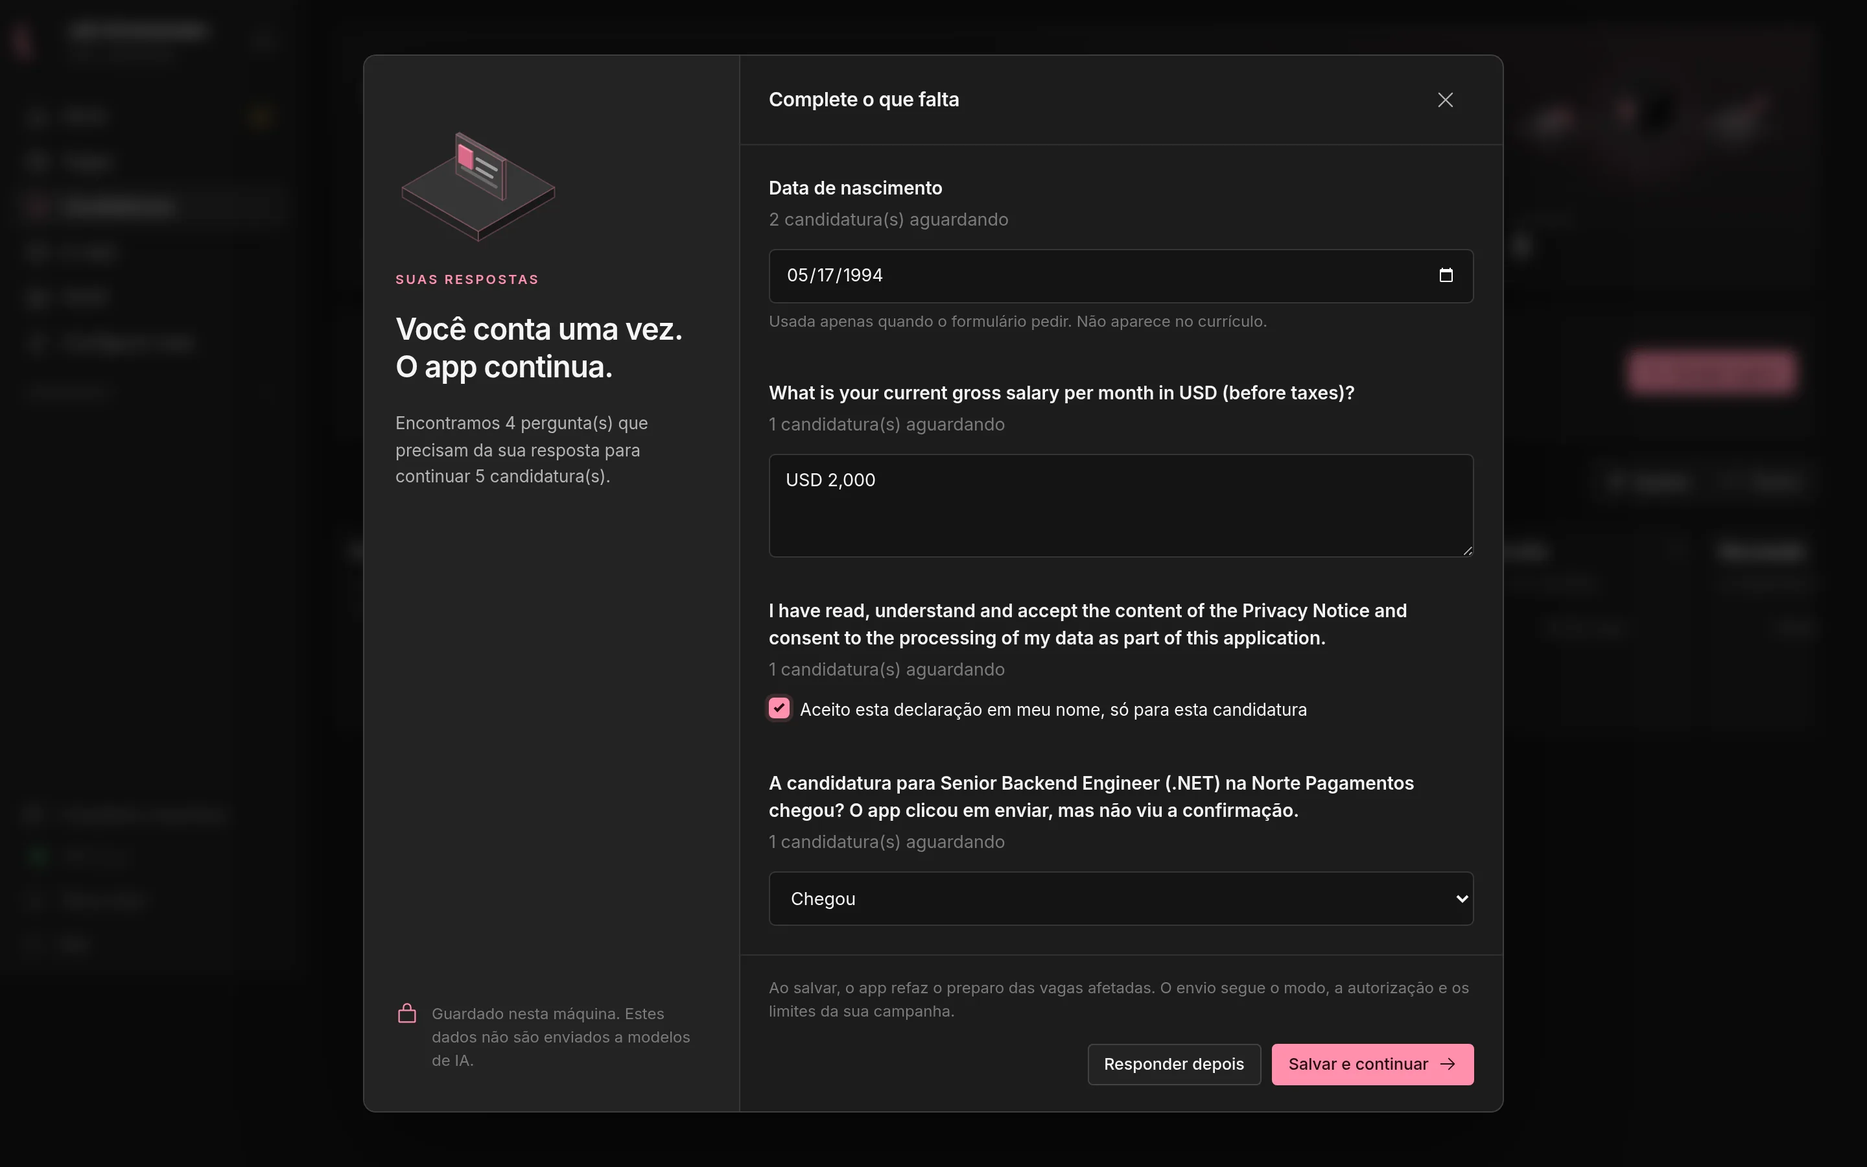
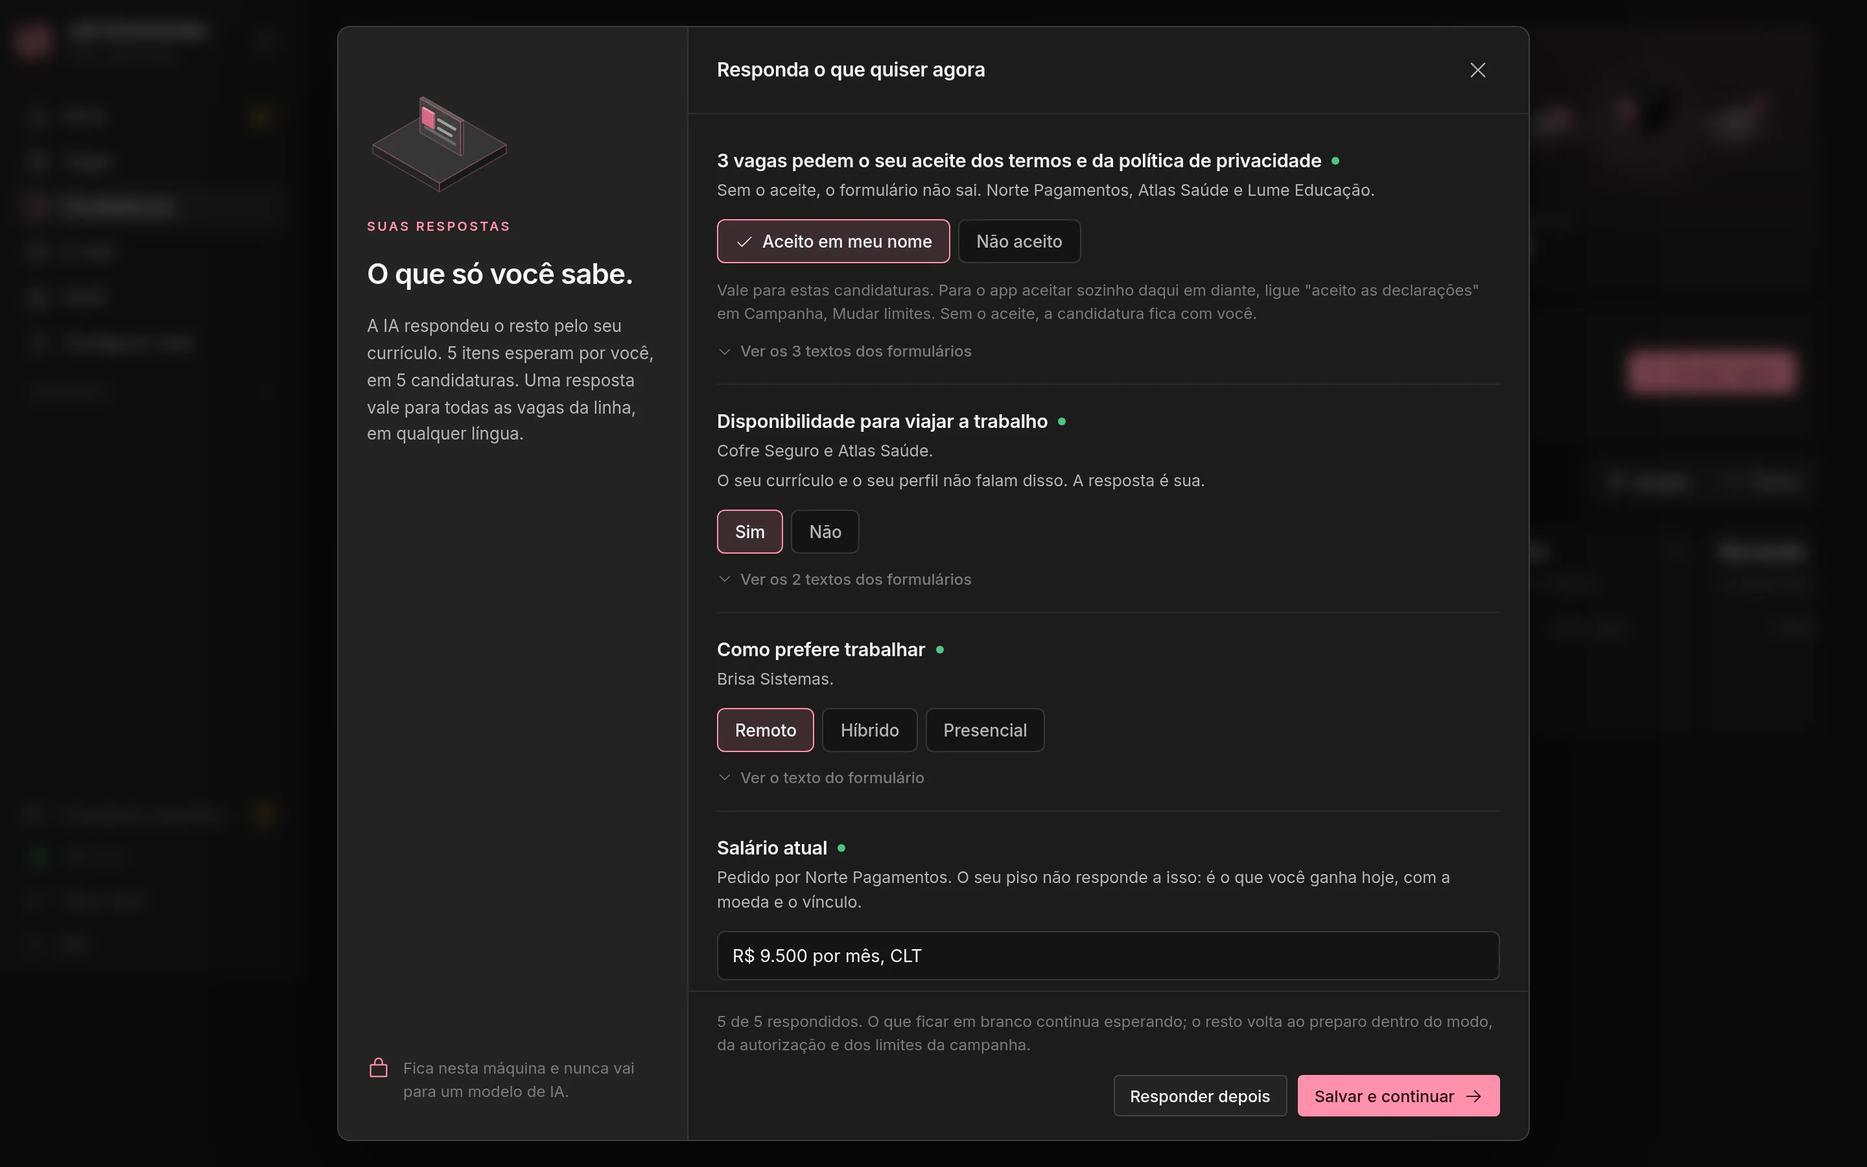
docs: show the grouped answers window and the platform e-mail tracking, and fix the source count

diff --git a/site/index.html b/site/index.html
@@ -246,7 +246,7 @@
         <p data-cap="jobs" class="on" data-i18n="cap.jobs">Open jobs, the funnel from found to queued, jobs per source and the tools employers ask for most.</p>
         <p data-cap="live-map" data-i18n="cap.map">Every agent and what passes between them, updated while the search runs.</p>
         <p data-cap="coverage" data-i18n="cap.cov">249 countries and territories: where a source works, where jobs show up and what is still unchecked.</p>
-        <p data-cap="questions" data-i18n="cap.q">What only you can answer, asked once, with how many applications wait for each answer. The answers stay on your machine.</p>
+        <p data-cap="questions" data-i18n="cap.q">What only you can answer, grouped by meaning: one answer covers every form that asks it, in any language. The AI answers the rest from your CV, and your answers stay on your machine.</p>
         <p class="dim sm" data-i18n="scr.note">The interface is in Brazilian Portuguese. Résumés and answers come out in Portuguese for jobs in Brazil and in English everywhere else.</p>
       </figcaption>
     </section>

diff --git a/site/js/i18n.js b/site/js/i18n.js
@@ -71,7 +71,7 @@ export const PT = {
   'cap.jobs': 'Vagas abertas, o funil de encontradas até a fila, vagas por fonte e as ferramentas mais pedidas.',
   'cap.map': 'Os agentes e o que passa entre eles, atualizados enquanto a busca roda.',
   'cap.cov': '249 países e territórios: onde uma fonte funciona, onde aparecem vagas e o que falta conferir.',
-  'cap.q': 'O que só você pode responder, perguntado uma vez, com quantas candidaturas esperam cada resposta. As respostas ficam na sua máquina.',
+  'cap.q': 'O que só você pode responder, agrupado pelo sentido: uma resposta vale para todo formulário que pergunta a mesma coisa, em qualquer língua. A IA responde o resto pelo seu currículo, e as suas respostas ficam na sua máquina.',
   'scr.note': 'A interface é em português do Brasil. Currículos e respostas saem em português para vagas no Brasil e em inglês para as demais.',
   'soon.badge': 'Em breve',
   'rec.t2': 'para recrutadores.',

diff --git a/README.pt-BR.md b/README.pt-BR.md
@@ -41,6 +41,7 @@ A interface é em português do Brasil. Currículos e respostas de formulário s
 - **Os seus dados ficam na sua pasta de usuário.** Currículo, perfil, currículos gerados, histórico das candidaturas e dados dos e-mails ficam em `~/.local/share/job-orchestrator` no Linux, em `~/Library/Application Support/JobOrchestrator` no macOS e em `%LOCALAPPDATA%\JobOrchestrator` no Windows. Sai do computador apenas o que uma fonte precisa para responder e as candidaturas que você aprova.
 - **Sem telemetria.** Nada informa uso para lugar nenhum.
 - **O modelo local vem primeiro.** Ler currículo, dar nota às vagas e escrever textos fica com um modelo servido pelo [Ollama](https://ollama.com). Ele usa a sua GPU quando o Ollama tem suporte a ela (NVIDIA, AMD ou Apple Silicon) e o processador nos outros casos. A tela de Provedores instala o modelo para você.
+- **Um rastro para diagnóstico, no seu disco.** Requisições que mudam algo, cada passo da fila, cada mudança de estado, as chamadas de IA e os erros da tela vão para um log local guardado por 14 dias, que a tela Diagnóstico filtra. Nenhuma resposta, currículo ou corpo de e-mail entra nele, e ele nunca é enviado a lugar nenhum.
 - **A sua assinatura de IA é opcional.** Se você já usa o Claude Code ou o Codex CLI, o app pode chamá-los para os textos mais pesados, na ordem que você escolher e com uma reserva, para a cota do seu trabalho continuar intacta. Nenhuma chave de API paga é necessária.
 
 ## Como funciona
@@ -48,7 +49,7 @@ A interface é em português do Brasil. Currículos e respostas de formulário s
 <table>
   <tr>
     <td width="112" align="center"><picture><source media="(prefers-color-scheme: dark)" srcset=".github/assets/step-radar-dark.svg"><img alt="" src=".github/assets/step-radar-light.svg" width="96"></picture></td>
-    <td><b>1. Encontrar.</b> O Batedor consulta 52 fontes registradas pela API oficial ou pela página pública de cada uma: sites de carreira de empresas no Greenhouse, Lever, Ashby, SmartRecruiters, Workday, Workable e Teamtailor, plataformas brasileiras como Gupy, Sólides, InHire, Quickin e Pandapé, APIs de vagas como Himalayas, Remotive, Remote OK e Get on Board, serviços públicos de emprego da Suécia, da Noruega, da República Tcheca, da Letônia e dos Estados Unidos, as threads de contratação do Hacker News e do GitHub e os alertas de vaga que chegam ao seu e-mail. A cada 10 minutos, o Explorador procura fontes novas a partir do seu currículo e fica com as que trazem vagas inéditas.</td>
+    <td><b>1. Encontrar.</b> O Batedor consulta 53 fontes registradas pela API oficial ou pela página pública de cada uma: sites de carreira de empresas no Greenhouse, Lever, Ashby, SmartRecruiters, Workday, Workable e Teamtailor, plataformas brasileiras como Gupy, Sólides, InHire, Quickin e Pandapé, APIs de vagas como Himalayas, Remotive, Remote OK e Get on Board, serviços públicos de emprego da Suécia, da Noruega, da República Tcheca, da Letônia e dos Estados Unidos, as threads de contratação do Hacker News e do GitHub e os alertas de vaga que chegam ao seu e-mail. A cada 10 minutos, o Explorador procura fontes novas a partir do seu currículo e fica com as que trazem vagas inéditas.</td>
   </tr>
   <tr>
     <td align="center"><picture><source media="(prefers-color-scheme: dark)" srcset=".github/assets/step-chart-dark.svg"><img alt="" src=".github/assets/step-chart-light.svg" width="96"></picture></td>
@@ -56,15 +57,15 @@ A interface é em português do Brasil. Currículos e respostas de formulário s
   </tr>
   <tr>
     <td align="center"><picture><source media="(prefers-color-scheme: dark)" srcset=".github/assets/step-writer-dark.svg"><img alt="" src=".github/assets/step-writer-light.svg" width="96"></picture></td>
-    <td><b>3. Escrever.</b> O Redator monta um currículo para cada vaga apenas com fatos do seu currículo, da sua exportação do LinkedIn e do seu perfil. O Conferente compara cada linha com a origem, um Revisor de outra família de modelos lê de novo e o Inspetor ATS lê o PDF final do jeito que um sistema de recrutamento leria. A carta de apresentação é opcional e segue a língua da vaga.</td>
+    <td><b>3. Escrever.</b> O Redator monta um currículo para cada vaga apenas com fatos do seu currículo, da sua exportação do LinkedIn e do seu perfil, e vende esses fatos: resultado primeiro, as palavras da própria vaga para o mesmo trabalho, os anos contados pelas suas datas e tudo na língua da vaga. Um rascunho que mistura línguas ou copia o seu resumo antigo volta para outro modelo com a lista do que corrigir. O Conferente compara cada linha com a origem, um Revisor de outra família de modelos lê de novo e o Inspetor ATS lê o PDF final do jeito que um sistema de recrutamento leria. A carta de apresentação é opcional e segue a língua da vaga.</td>
   </tr>
   <tr>
     <td align="center"><picture><source media="(prefers-color-scheme: dark)" srcset=".github/assets/step-guardian-dark.svg"><img alt="" src=".github/assets/step-guardian-light.svg" width="96"></picture></td>
-    <td><b>4. Candidatar, com o seu ok.</b> O formulário é preenchido num navegador de verdade, e um ensaio para antes do botão de enviar. Nada sai sem a sua aprovação ou sem uma autorização que você deu para aquele tipo de vaga, sempre dentro de um teto por dia e de uma janela de horário. CAPTCHA e login ficam com você.</td>
+    <td><b>4. Candidatar, com o seu ok.</b> O formulário é preenchido num navegador de verdade, e um ensaio para antes do botão de enviar. Perguntas abertas como "conte um projeto" são respondidas pelo seu currículo. O que só você sabe, como uma declaração para aceitar ou o seu salário atual, chega uma vez, agrupado pelo sentido, e uma resposta vale para todo formulário que pergunta a mesma coisa, em qualquer língua. Nada sai sem a sua aprovação ou sem uma autorização que você deu para aquele tipo de vaga, sempre dentro de um teto por dia e de uma janela de horário. CAPTCHA e login ficam com você.</td>
   </tr>
   <tr>
     <td align="center"><picture><source media="(prefers-color-scheme: dark)" srcset=".github/assets/step-inbox-dark.svg"><img alt="" src=".github/assets/step-inbox-light.svg" width="96"></picture></td>
-    <td><b>5. Acompanhar.</b> Com acesso só de leitura ao Gmail, as respostas movem cada candidatura no funil. Toda candidatura tem um histórico que só cresce e uma prova de envio.</td>
+    <td><b>5. Acompanhar.</b> Com acesso só de leitura ao seu e-mail, as respostas movem cada candidatura no funil, e os e-mails de status da Gupy, do Greenhouse, do Lever, do Indeed e de outras plataformas confirmam as candidaturas enviadas por elas e marcam entrevista, oferta e recusa. Toda candidatura tem um histórico que só cresce e uma prova de envio.</td>
   </tr>
 </table>
 
@@ -75,9 +76,10 @@ O Job Orchestrator se candidata em seu nome. Leia o que ele prepara antes de dei
 - A busca opcional do LinkedIn usa uma sessão autenticada no navegador local, com limites de consultas. Login e desafios exigem sua ação; Easy Apply permanece assistido. A extensão captura o conteúdo da página que você abriu. Veja o [guia e os limites de validação real](docs/REAL_LINKEDIN_AND_CAPTCHA.md); testes de DOM não comprovam acesso autenticado ao serviço.
 - CAPTCHAs de sites externos ficam com você. Quando um site bloqueia acesso automático, a fonte fica de fora.
 - O coletor segue o robots.txt, espera entre as requisições e abre uma conexão por site.
+- O app não entra na Gupy, no Indeed nem no Glassdoor com a sua conta para buscar ou se candidatar, porque os termos deles proíbem acesso automatizado às contas. Ele lê as vagas públicas onde isso é permitido, os alertas que eles mandam para o seu e-mail e os e-mails de status, e o copiloto preenche o formulário enquanto você se candidata no seu próprio navegador.
 - Fontes cujos termos não permitem esse uso ficam no registro como bloqueadas (LinkedIn Jobs, France Travail) ou apenas com parceria (a API de empregador da Gupy e o MyCareersFuture de Singapura), com o motivo à vista.
 
-Das 52 fontes registradas, 24 são estáveis, 20 são experimentais, 4 precisam de uma chave de API gratuita sua, 2 dependem de parceria e 2 estão bloqueadas. O catálogo do Batedor tem 34.880 quadros de vagas de empresas.
+Das 53 fontes registradas, 24 são estáveis, 21 são experimentais, 4 precisam de uma chave de API gratuita sua, 2 dependem de parceria e 2 estão bloqueadas. O catálogo do Batedor tem 34.880 quadros de vagas de empresas.
 
 ## De perto
 
@@ -94,6 +96,13 @@ Das 52 fontes registradas, 24 são estáveis, 20 são experimentais, 4 precisam 
 </picture>
 
 **Cobertura.** Para 249 países e territórios: onde uma fonte funciona, onde aparecem vagas por quadros globais e onde nada foi conferido ainda.
+
+<picture>
+  <source media="(prefers-color-scheme: dark)" srcset=".github/assets/screen-questions-dark.webp">
+  <img alt="A janela de respostas: três vagas pedem o mesmo aceite, duas perguntam se você pode viajar, uma pergunta a modalidade e outra o salário atual, cada uma com uma resposta para todas." src=".github/assets/screen-questions-light.webp" width="100%">
+</picture>
+
+**Suas respostas.** O que só você pode responder, agrupado pelo sentido, para que uma resposta valha para todo formulário que pergunta a mesma coisa, em qualquer língua. A IA responde o resto pelo seu currículo, e essas respostas ficam na sua máquina e nunca vão para um modelo.
 
 ## Em breve: o Job Orchestrator para recrutadores
 

diff --git a/README.md b/README.md
@@ -41,6 +41,7 @@ The interface is in Brazilian Portuguese. Résumés and form answers are written
 - **Your data stays in your user folder.** CV, profile, résumés, application history and e-mail metadata live in `~/.local/share/job-orchestrator` on Linux, `~/Library/Application Support/JobOrchestrator` on macOS and `%LOCALAPPDATA%\JobOrchestrator` on Windows. What leaves the computer is what a source needs to answer a request and the applications you approve.
 - **No telemetry.** Nothing reports usage anywhere.
 - **The local model comes first.** Reading CVs, scoring jobs and drafting text run on a model served by [Ollama](https://ollama.com). It uses your GPU when Ollama supports it (NVIDIA, AMD or Apple Silicon) and the CPU otherwise. The Providers screen installs the model for you.
+- **A trail for diagnosis, on your disk.** Requests that change something, each step of the queue, each change of state, the AI calls and the errors on screen go to a local log kept for 14 days, which the Diagnóstico screen filters. No answer, CV or e-mail body is written to it, and it is never sent anywhere.
 - **Your own AI subscription is optional.** If you already use Claude Code or the Codex CLI, the app can call them for the heavier writing, in the order you choose and with a reserve, so the quota you need for your own work stays untouched. No paid API key is required.
 
 ## How it works
@@ -48,7 +49,7 @@ The interface is in Brazilian Portuguese. Résumés and form answers are written
 <table>
   <tr>
     <td width="112" align="center"><picture><source media="(prefers-color-scheme: dark)" srcset=".github/assets/step-radar-dark.svg"><img alt="" src=".github/assets/step-radar-light.svg" width="96"></picture></td>
-    <td><b>1. Find.</b> The Scout checks 52 registered sources through their official APIs or public pages: company career sites on Greenhouse, Lever, Ashby, SmartRecruiters, Workday, Workable and Teamtailor, Brazilian platforms such as Gupy, Sólides, InHire, Quickin and Pandapé, job APIs like Himalayas, Remotive, Remote OK and Get on Board, public employment services in Sweden, Norway, Czechia, Latvia and the United States, Hacker News and GitHub hiring threads, and the job alerts that land in your inbox. Every 10 minutes the Explorer looks for new sources based on your CV and keeps the ones that bring jobs you have not seen.</td>
+    <td><b>1. Find.</b> The Scout checks 53 registered sources through their official APIs or public pages: company career sites on Greenhouse, Lever, Ashby, SmartRecruiters, Workday, Workable and Teamtailor, Brazilian platforms such as Gupy, Sólides, InHire, Quickin and Pandapé, job APIs like Himalayas, Remotive, Remote OK and Get on Board, public employment services in Sweden, Norway, Czechia, Latvia and the United States, Hacker News and GitHub hiring threads, and the job alerts that land in your inbox. Every 10 minutes the Explorer looks for new sources based on your CV and keeps the ones that bring jobs you have not seen.</td>
   </tr>
   <tr>
     <td align="center"><picture><source media="(prefers-color-scheme: dark)" srcset=".github/assets/step-chart-dark.svg"><img alt="" src=".github/assets/step-chart-light.svg" width="96"></picture></td>
@@ -56,15 +57,15 @@ The interface is in Brazilian Portuguese. Résumés and form answers are written
   </tr>
   <tr>
     <td align="center"><picture><source media="(prefers-color-scheme: dark)" srcset=".github/assets/step-writer-dark.svg"><img alt="" src=".github/assets/step-writer-light.svg" width="96"></picture></td>
-    <td><b>3. Write.</b> The Writer builds a résumé for each job using only facts found in your CV, your LinkedIn export and your profile. A checker compares every line with its source, a reviewer from a different model family reads it again, and an ATS inspector parses the final PDF the way an applicant tracking system would. A cover letter is optional and follows the language of the job.</td>
+    <td><b>3. Write.</b> The Writer builds a résumé for each job using only facts found in your CV, your LinkedIn export and your profile, and it sells them: results first, the job's own words for the same work, the years counted from your dates and everything in the job's language. A draft that mixes languages or copies your old summary goes back to another model with the list of what to fix. A checker compares every line with its source, a reviewer from a different model family reads it again, and an ATS inspector parses the final PDF the way an applicant tracking system would. A cover letter is optional and follows the language of the job.</td>
   </tr>
   <tr>
     <td align="center"><picture><source media="(prefers-color-scheme: dark)" srcset=".github/assets/step-guardian-dark.svg"><img alt="" src=".github/assets/step-guardian-light.svg" width="96"></picture></td>
-    <td><b>4. Apply, with your OK.</b> The form is filled in a real browser, and you can run a rehearsal that stops before the submit button. Nothing goes out without your approval or an authorization you set up for that kind of job, always within a daily cap and a time window. CAPTCHAs and logins are handed to you.</td>
+    <td><b>4. Apply, with your OK.</b> The form is filled in a real browser, and you can run a rehearsal that stops before the submit button. Open questions such as "tell us about a project" are answered from your CV. What only you know, like a declaration to accept or your current pay, reaches you once, grouped by meaning, and one answer covers every form that asks it, in any language. Nothing goes out without your approval or an authorization you set up for that kind of job, always within a daily cap and a time window. CAPTCHAs and logins are handed to you.</td>
   </tr>
   <tr>
     <td align="center"><picture><source media="(prefers-color-scheme: dark)" srcset=".github/assets/step-inbox-dark.svg"><img alt="" src=".github/assets/step-inbox-light.svg" width="96"></picture></td>
-    <td><b>5. Follow up.</b> With read-only access to Gmail, replies move each application along the funnel. Every application keeps an append-only history and a proof of submission.</td>
+    <td><b>5. Follow up.</b> With read-only access to your inbox, replies move each application along the funnel, and the status e-mails from Gupy, Greenhouse, Lever, Indeed and other platforms confirm the applications you sent through them and mark interviews, offers and rejections. Every application keeps an append-only history and a proof of submission.</td>
   </tr>
 </table>
 
@@ -75,6 +76,7 @@ Job Orchestrator applies to jobs in your name. Read what it prepares before you 
 - An optional, disabled-by-default LinkedIn session connector reads job searches through a separate local browser you log in to. It is experimental, depends on the site's layout and can be interrupted by login, verification or access limits. LinkedIn restricts automated access in its terms. Profile export, alert e-mails and user-triggered page capture remain available. See the [setup and live-test guide](docs/REAL_LINKEDIN_AND_CAPTCHA.md).
 - CAPTCHAs on external job sites remain with the user. For your own server, the controlled test flow supports local image OCR, arithmetic and official Turnstile/reCAPTCHA v2/hCaptcha widgets with server validation and session continuity.
 - The scraper follows robots.txt, waits between requests and opens one connection per site.
+- The app does not sign in to Gupy, Indeed or Glassdoor with your account to search or apply, because their terms forbid automated access to accounts. It reads their public listings where that is allowed, the job alerts they e-mail you and their status e-mails, and the copilot fills the form while you apply in your own browser.
 - Sources whose terms do not allow this kind of use stay in the registry as blocked (LinkedIn Jobs, France Travail) or partner-only (the Gupy employer API and Singapore's MyCareersFuture), so you can see why they are off.
 
 Of the 53 registered sources, 24 are stable, 21 are experimental, 4 need a free API key of your own, 2 are partner-only and 2 are blocked. The catalog behind the Scout lists 34,880 company job boards.
@@ -94,6 +96,13 @@ Of the 53 registered sources, 24 are stable, 21 are experimental, 4 need a free 
 </picture>
 
 **Coverage.** For 249 countries and territories: where a source works, where openings show up through global boards, and where nothing has been checked yet.
+
+<picture>
+  <source media="(prefers-color-scheme: dark)" srcset=".github/assets/screen-questions-dark.webp">
+  <img alt="The answers window: three jobs ask for the same consent, two ask whether you can travel, one asks your work model and one your current pay, each with one answer for all of them." src=".github/assets/screen-questions-light.webp" width="100%">
+</picture>
+
+**Your answers.** What only you can answer, grouped by meaning, so one answer covers every form that asks it, in any language. The AI answers the rest from your CV, and these answers stay on your machine and never go to a model.
 
 ## Coming soon: Job Orchestrator for recruiters
 
